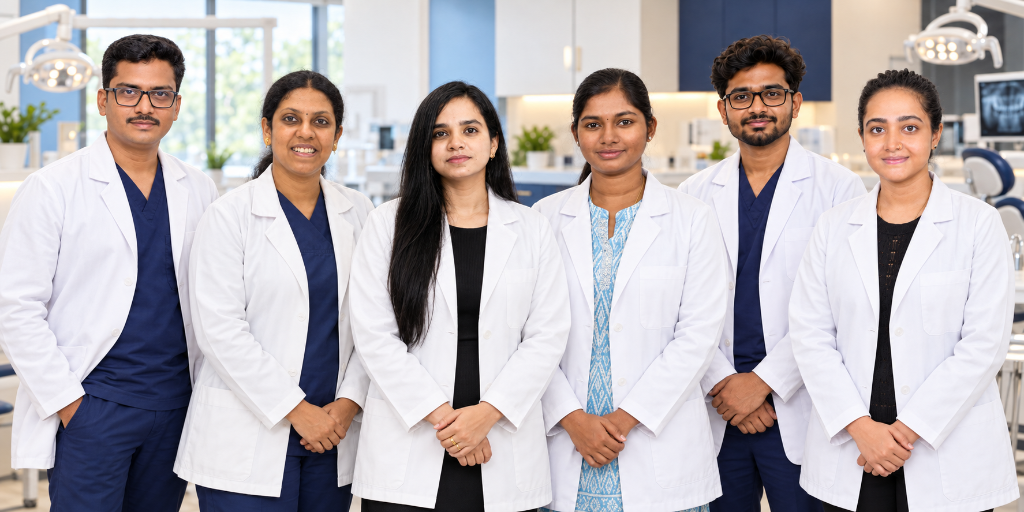
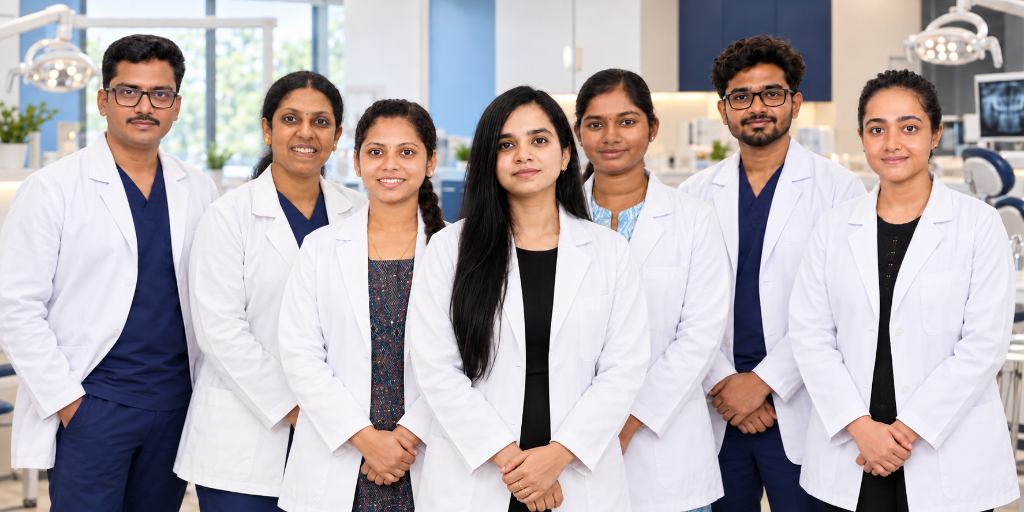
updated group pic

diff --git a/doctors.html b/doctors.html
@@ -253,7 +253,7 @@
         </div>
     </div>
 
-    <!-- 3. HERO BANNER (WITH 6-DOCTORS TEAM BACKGROUND - 70% VISIBILITY) -->
+    <!-- 3. HERO BANNER (WITH 7-DOCTORS TEAM BACKGROUND - 70% VISIBILITY) -->
     <section class="relative bg-[#0b2038] text-white pt-8 pb-16 md:py-20 overflow-hidden select-none">
         <!-- Doctor Team Background Image with 70% Opacity (Clearer & More Prominent) -->
         <div class="absolute inset-0 bg-cover bg-center md:bg-right pointer-events-none opacity-70" style="background-image: url('assets/images/doctors-team-banner.png');"></div>
